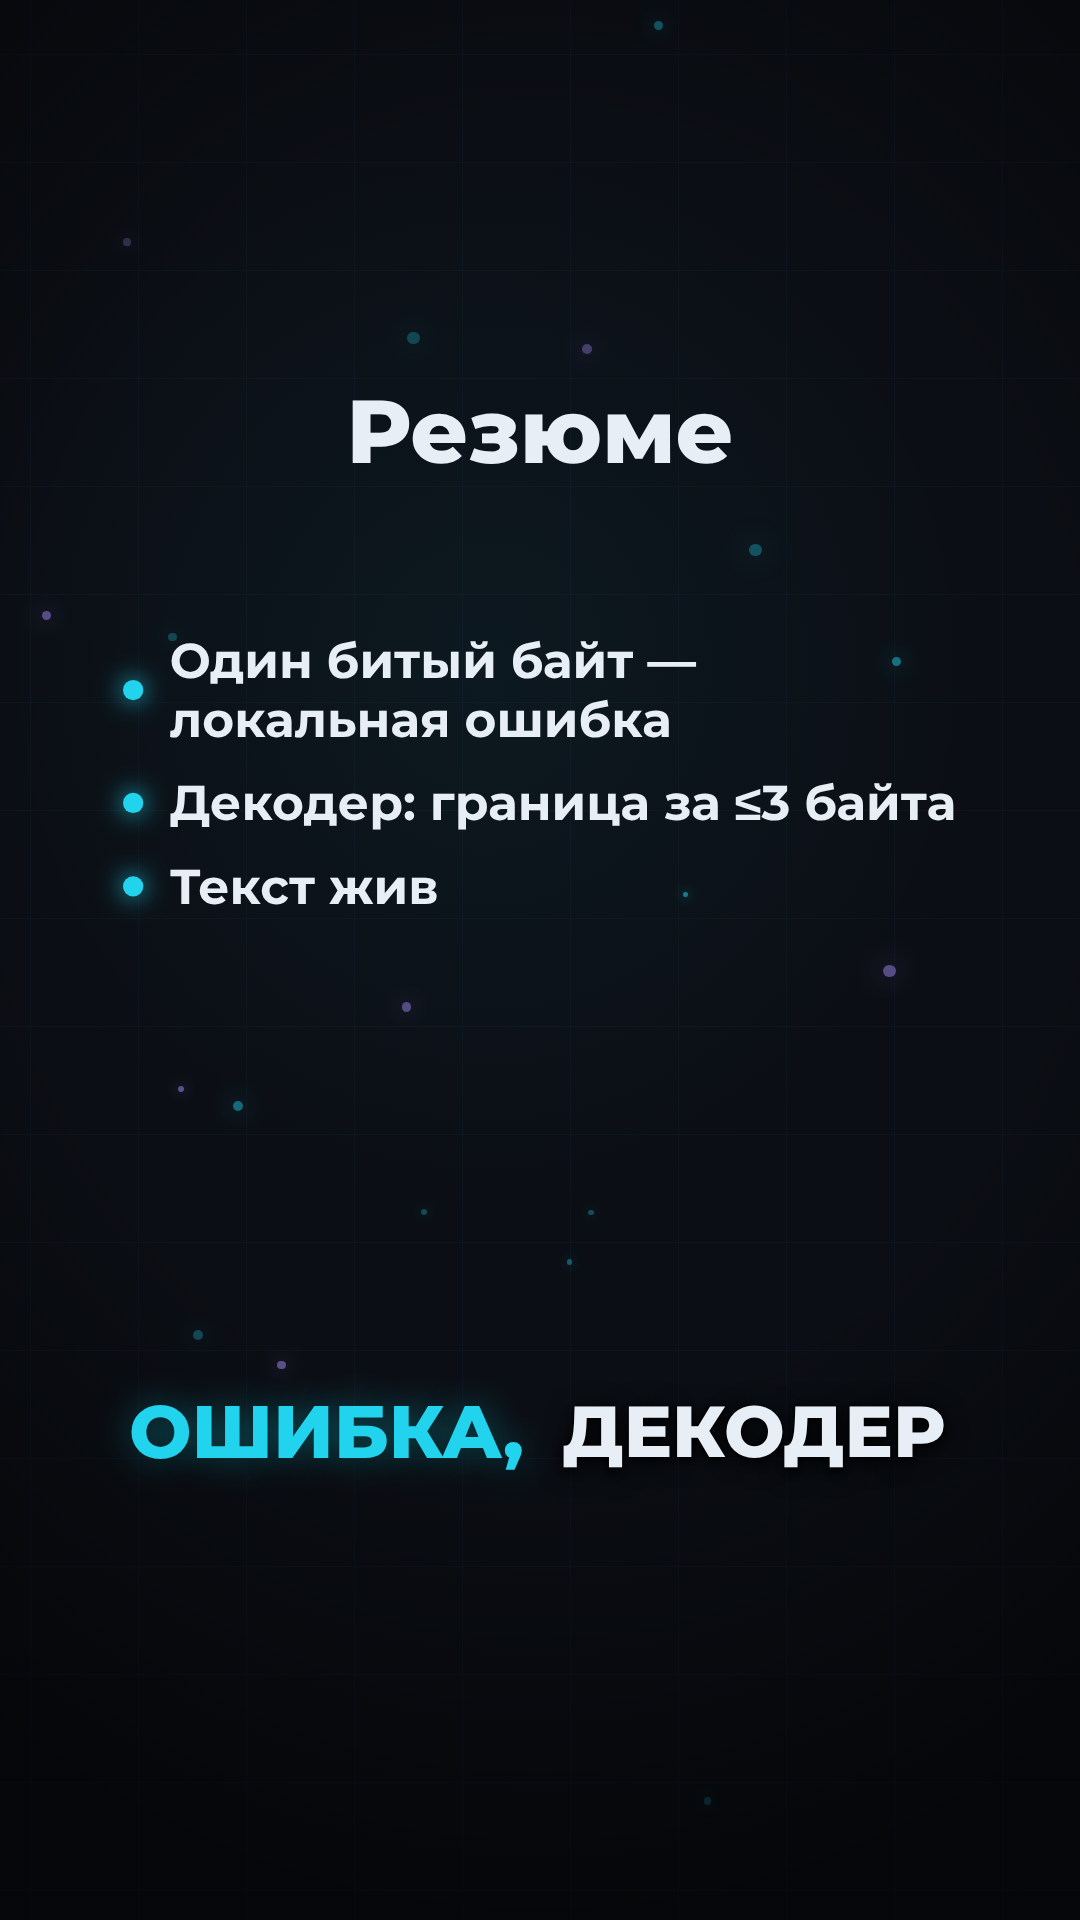
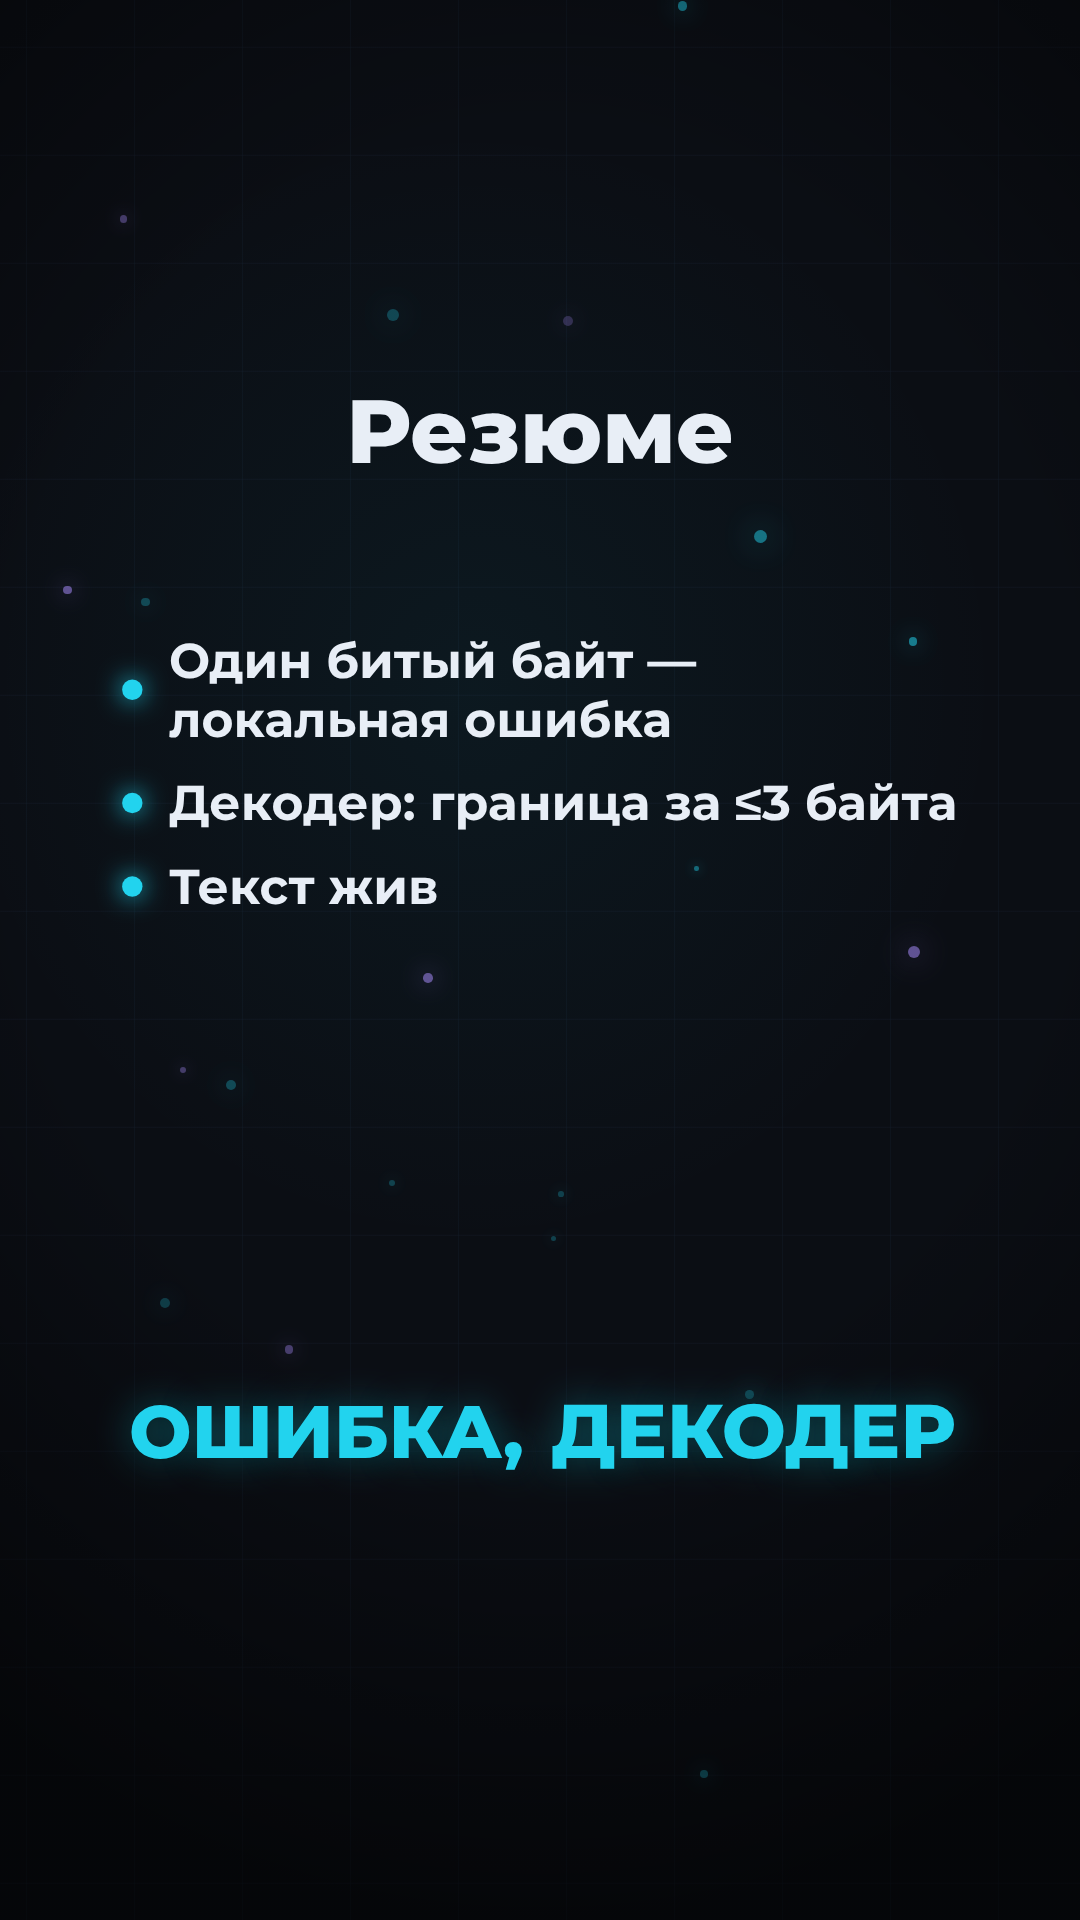
fix: наложение текста в utf8-boundary (auto-20260825-080101)
Заголовок/подпись визуала и аннотации-пилюли перекрывали друг друга и
заголовок сцены на нескольких кадрах — пользователь заметил при апруве.
Раздвинул сетку байтов и заголовок/подпись визуала, развёл соседние
аннотации по диагонали и переместил аннотации второй строки под неё
(а не над ней, где они наезжали на подписи первой строки). Перерендерил
mp4 и qc-кадры, подтвердил чистоту детерминированным чекером пересечений.

Claude-Session: https://claude.ai/code/session_01MQZ5VyvJkUQoWVuhphW6XG

Changed region(s): [[0.4889, 0.7188, 0.8861, 0.7812], [0.7944, 0.4062, 0.825, 0.4375]]

diff --git a/video/src/scenes/Utf8BoundaryVisual.tsx b/video/src/scenes/Utf8BoundaryVisual.tsx
@@ -39,7 +39,7 @@ const BYTES: { hex: string; label: string; type: "ascii" | "start" | "cont" | "b
 const BYTE_W = 72;
 const BYTE_GAP = 6;
 const ROW_GAP = 28;
-const ROW_Y_START = 380;
+const ROW_Y_START = 470;
 const COLS = 10;
 
 const byteColor = (type: string) => {
@@ -120,7 +120,7 @@ export const Utf8BoundaryVisual: React.FC<{
         style={{
           position: "absolute",
           left: cx,
-          top: 260,
+          top: 285,
           transform: "translateX(-50%)",
           ...mono,
           fontSize: 28,
@@ -130,13 +130,13 @@ export const Utf8BoundaryVisual: React.FC<{
       >
         {phase === "stream" && "ПОТОК БАЙТОВ UTF-8"}
         {phase === "broken" && "ПОВРЕЖДЁННЫЙ БАЙТ"}
-        {phase === "resync" && "СИНХРОНИЗАЦИЯ → НОВАЯ ГРАНИЦА"}
+        {phase === "resync" && "СИНХРОНИЗАЦИЯ"}
       </div>
       <div
         style={{
           position: "absolute",
           left: cx,
-          top: 320,
+          top: 345,
           transform: "translateX(-50%)",
           fontFamily: theme.font,
           fontSize: 24,
@@ -258,18 +258,25 @@ export const Utf8BoundaryVisual: React.FC<{
         const row = Math.floor(a.idx / COLS);
         const col = a.idx % COLS;
         const x = cx - (COLS * (BYTE_W + BYTE_GAP)) / 2 + col * (BYTE_W + BYTE_GAP) + BYTE_W / 2;
-        const y = ROW_Y_START + row * (130 + ROW_GAP) - 30;
         const isNext = a.idx === nextIdx;
         const color = isNext ? theme.success : BYTES[a.idx].type === "broken" ? theme.danger : theme.warning;
-        // resync phase: push red badge up, green badge down to avoid overlap
-        const verticalOffset = highlightResync ? (isNext ? 18 : -18) : 0;
+        // adjacent-column annotation pairs (idx N, N+1) are wider than one byte
+        // column apart — stagger and nudge so pills never touch each other
+        const stagger = annotations.length > 1 ? (i % 2 === 0 ? -1 : 1) : 0;
+        const horizontalOffset = stagger * 35;
+        // row 0 has a clear gutter above it (below the subtitle line); any
+        // later row does NOT have a gutter above (the previous row's cells
+        // are right there) but has ample clear space below its own cells —
+        // placing pills above row>0 collided with the row above's byte label
+        const rowTop = ROW_Y_START + row * (130 + ROW_GAP);
+        const top = row === 0 ? rowTop - 65 + stagger * 20 : rowTop + 180 + stagger * 30;
         return (
           <div
             key={`ann-${i}`}
             style={{
               position: "absolute",
-              left: x,
-              top: y - 38 + verticalOffset,
+              left: x + horizontalOffset,
+              top,
               transform: "translateX(-50%)",
               padding: "6px 14px",
               borderRadius: 999,
